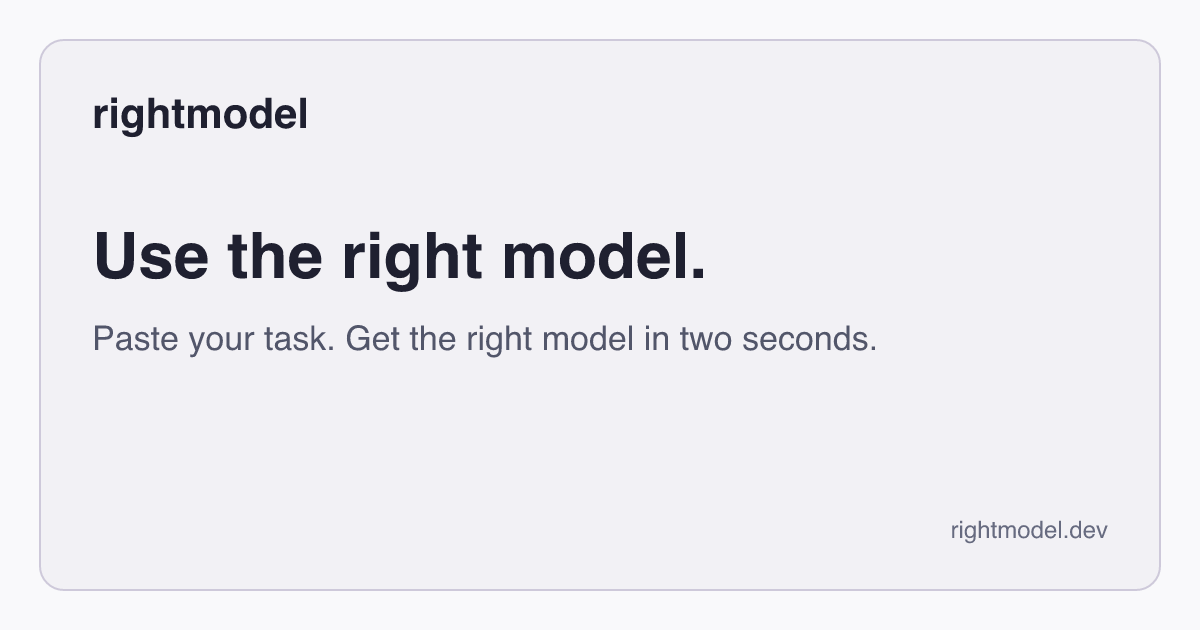
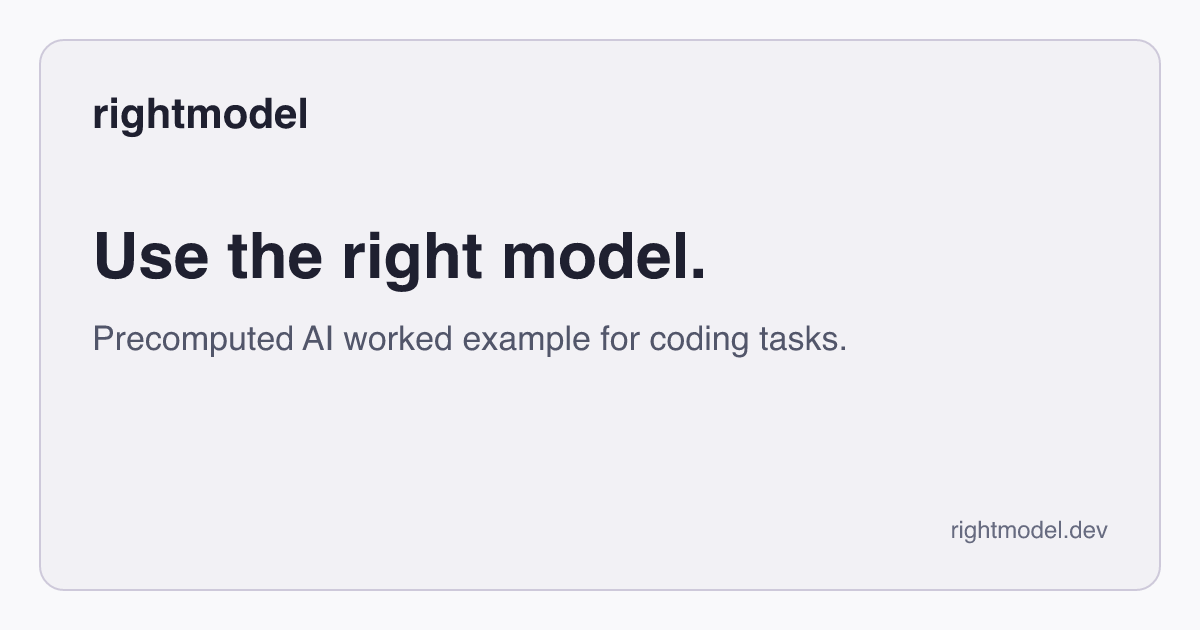
docs: formalize project as a worked example of the Precomputed AI design pattern and update SEO metadata

Changed region(s): [[0.0925, 0.5127, 0.74, 0.573]]

diff --git a/src/lib/site.ts b/src/lib/site.ts
@@ -2,8 +2,19 @@ import type { Provider, Tier } from "@/lib/types";
 
 export const siteTitle = "rightmodel";
 export const siteDescription =
-  "Paste what you are about to build. Get the right model in two seconds. No account, no guessing.";
+  "A worked example of the Precomputed AI design pattern for coding tasks: paste what you are about to build and get the right model in seconds.";
 export const defaultSiteUrl = "https://rightmodel.dev";
+
+export const precomputedAI = {
+  name: "Precomputed AI",
+  url: "https://precomputedai.com",
+  repository: "https://github.com/PrecomputedAI/precomputed-ai",
+  description:
+    "An artifact-first LLM design pattern for precomputing reusable reasoning, serving through versioned artifacts, and escalating only through declared paths.",
+  citation:
+    "Raquedan, R. (2026). Precomputed AI: Reason Ahead of Time, Serve Instantly.",
+  citationUrl: "https://precomputedai.com"
+};
 
 export const navLinks = [
   { href: "/for", label: "Tasks" },
@@ -68,8 +79,8 @@ export const changelogEntries = [
 export const pageDescriptions: Record<string, string> = {
   "/": siteDescription,
   "/for": "Browse indexed task pages that recommend the right AI model for common coding, debugging, and architecture work.",
-  "/about": "Why rightmodel exists, who built it and how to get in touch.",
-  "/methodology": "How rightmodel classifies tasks, uses pricing data and where the recommendation can be wrong.",
+  "/about": "Why rightmodel exists and how it uses the Precomputed AI design pattern.",
+  "/methodology": "How rightmodel uses the Precomputed AI design pattern with a versioned ruleset, pricing snapshots, and opt-in escalation.",
   "/models": "Covered models, tier assignments and nightly pricing snapshots.",
   "/contribute": "How to improve the ruleset and suggest recommendation fixes.",
   "/changelog": "Visible product updates, pricing changes that matter and recommendation fixes.",

diff --git a/src/lib/seo.ts b/src/lib/seo.ts
@@ -1,4 +1,4 @@
-import { defaultSiteUrl, siteDescription, siteTitle } from "@/lib/site";
+import { defaultSiteUrl, precomputedAI, siteDescription, siteTitle } from "@/lib/site";
 
 export type JsonLdType = "WebPage" | "WebSite" | "CollectionPage" | "AboutPage" | "FAQPage" | "TechArticle";
 
@@ -26,10 +26,27 @@ export function buildPageJsonLd(args: {
     url: args.canonical,
     inLanguage: "en-CA",
     isAccessibleForFree: true,
+    about: {
+      "@type": "Thing",
+      name: precomputedAI.name,
+      url: precomputedAI.url,
+      description: precomputedAI.description
+    },
+    citation: {
+      "@type": "CreativeWork",
+      name: precomputedAI.citation,
+      url: precomputedAI.citationUrl
+    },
     publisher: {
       "@type": "Organization",
       name: siteTitle,
       url: getSiteUrl()
+    },
+    isBasedOn: {
+      "@type": "CreativeWork",
+      name: precomputedAI.citation,
+      alternateName: precomputedAI.name,
+      url: precomputedAI.citationUrl
     }
   };
 

diff --git a/README.md b/README.md
@@ -1,6 +1,8 @@
 # rightmodel.dev
 
-rightmodel.dev is a free model-selection utility for developers using AI coding tools. Paste the task, get a recommendation fast, and avoid defaulting to the most expensive model. The site now has two surfaces: the free-text tool on `/` and pre-rendered task pages on `/for/[slug]` for common developer workflows.
+rightmodel.dev is a free model-selection utility for developers using AI coding tools and a worked example of the [Precomputed AI](https://precomputedai.com) design pattern. Paste the task, get a recommendation fast, and avoid defaulting to the most expensive model. The site now has two surfaces: the free-text tool on `/` and pre-rendered task pages on `/for/[slug]` for common developer workflows.
+
+Precomputed AI citation: Raquedan, R. (2026). *Precomputed AI: Reason Ahead of Time, Serve Instantly.* https://precomputedai.com
 
 Production URL: `https://rightmodel.dev`
 
